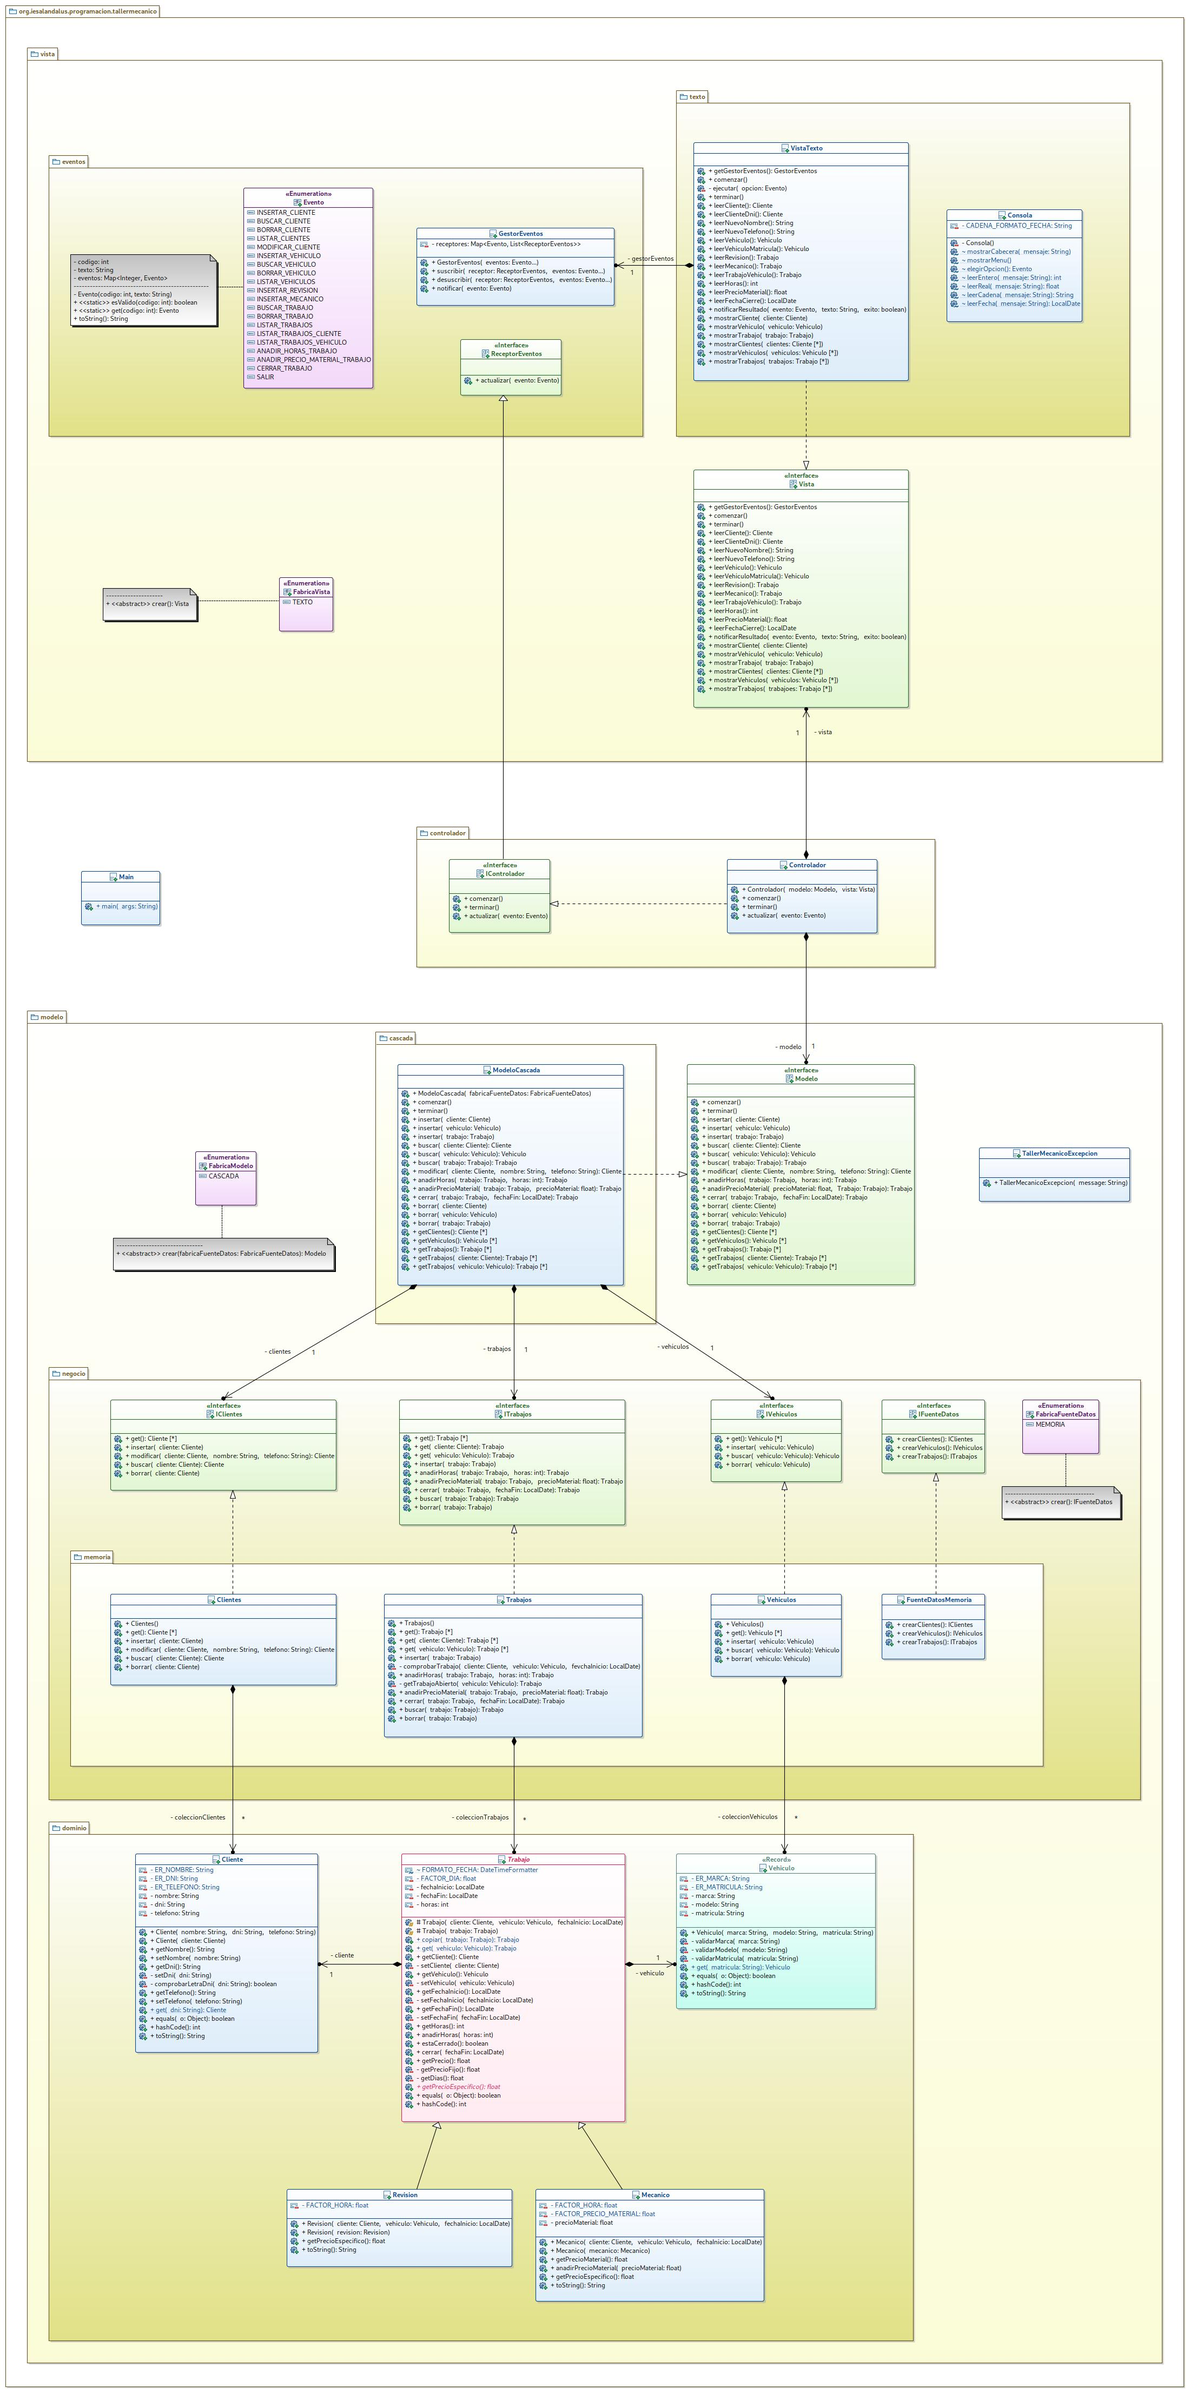
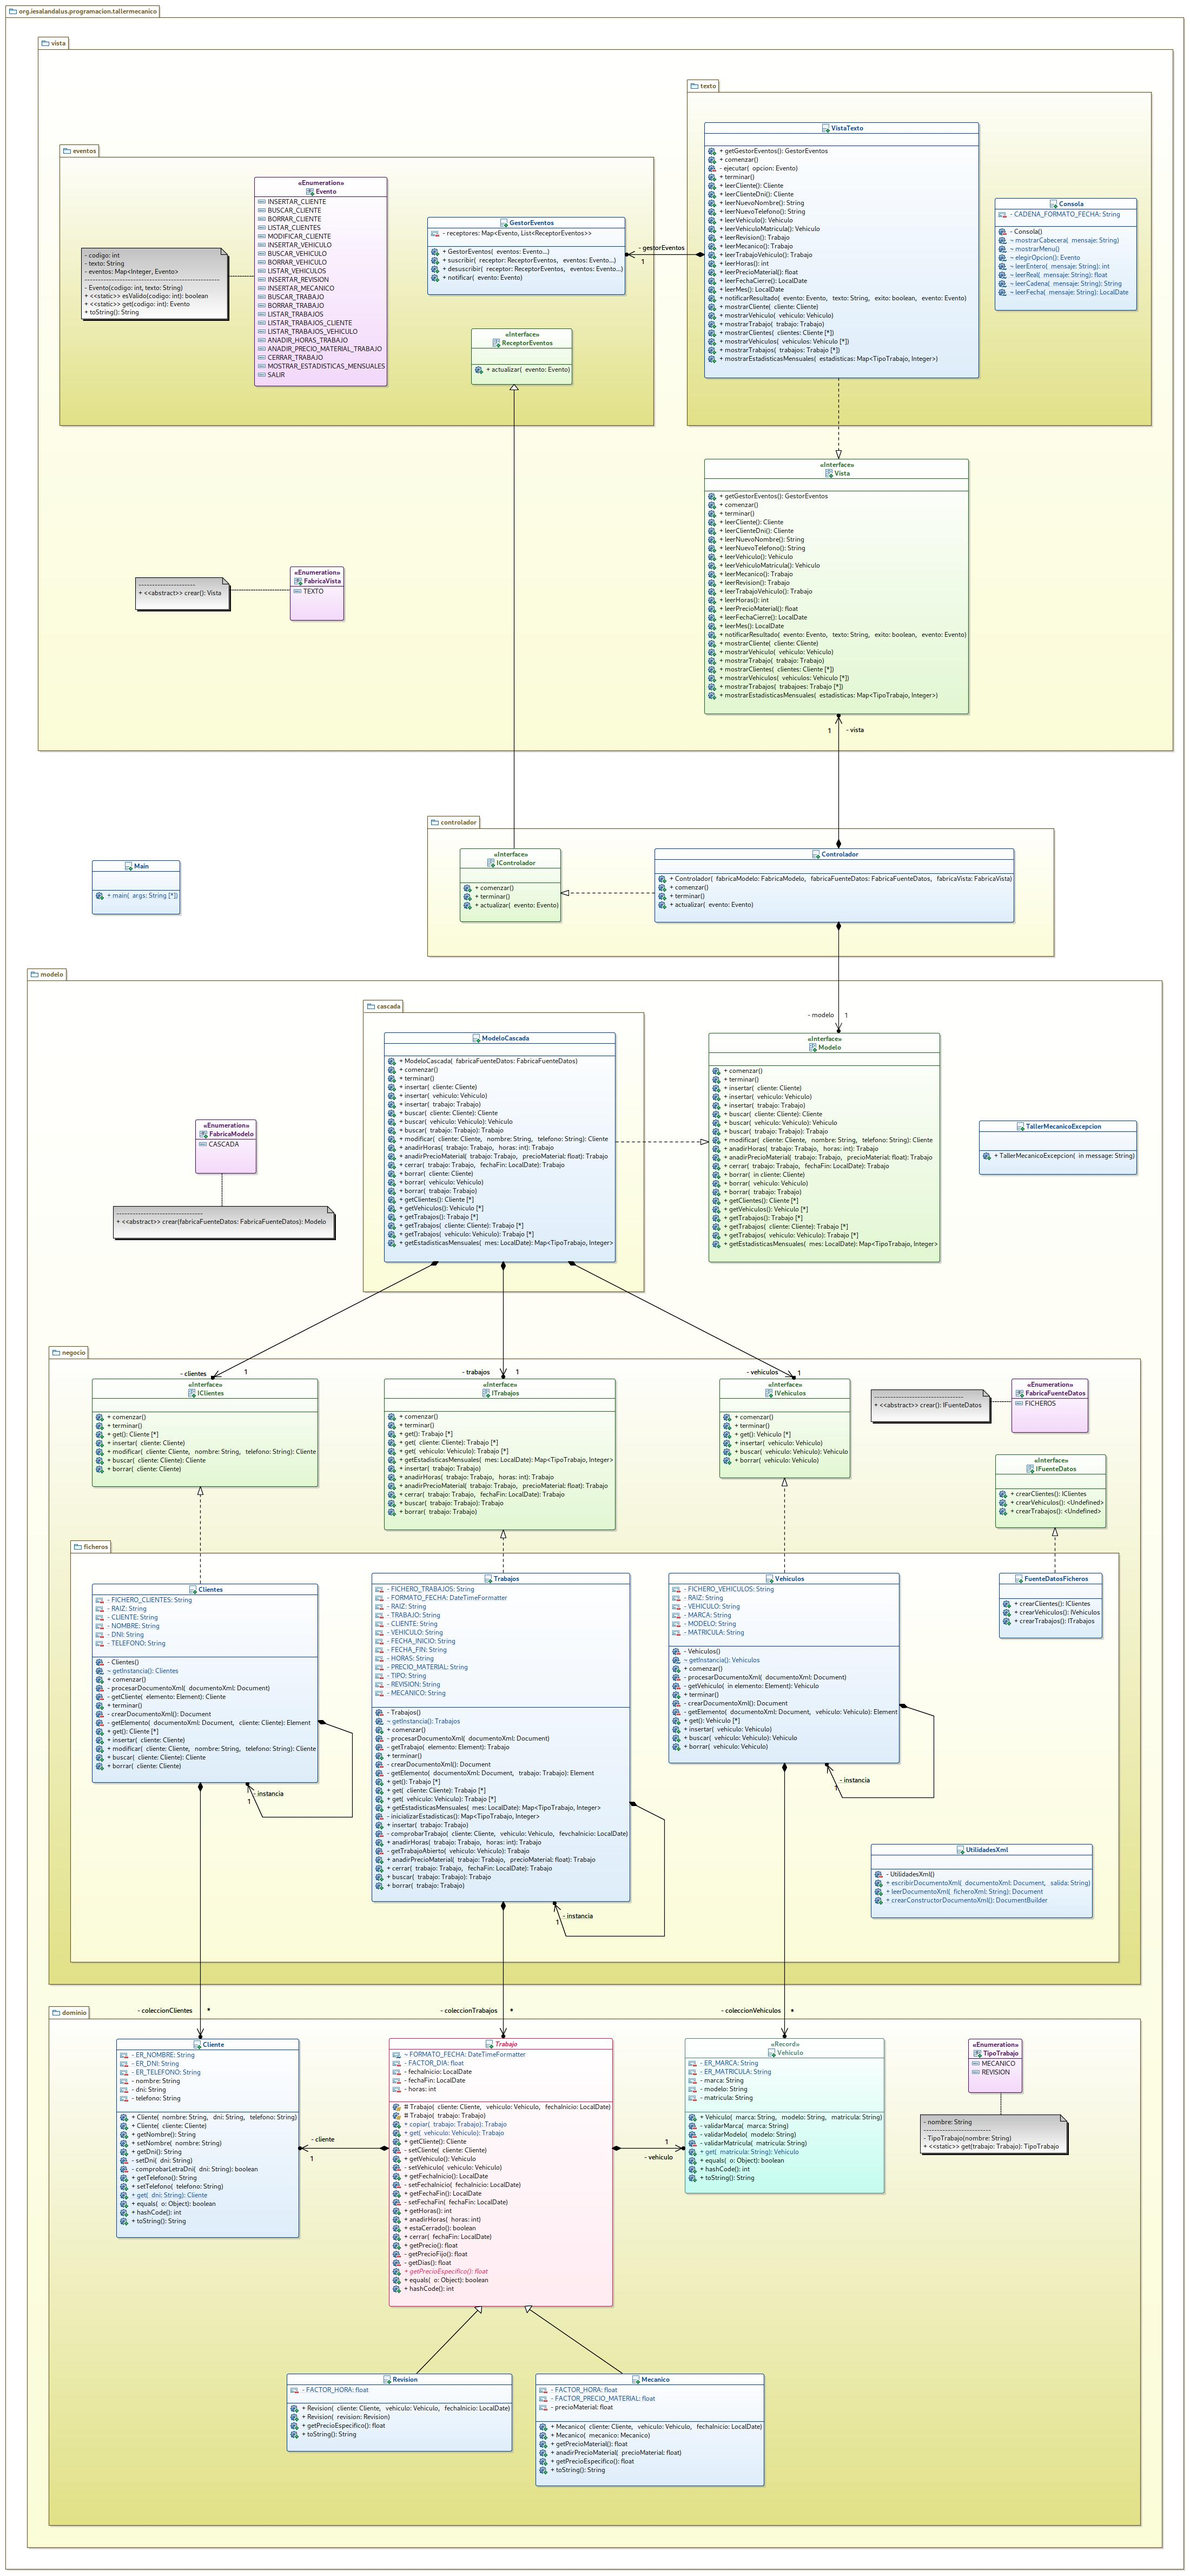
Enumerado evento hecho

diff --git a/src/main/java/org/iesalandalus/programacion/tallermecanico/vista/eventos/Evento.java b/src/main/java/org/iesalandalus/programacion/tallermecanico/vista/eventos/Evento.java
@@ -25,35 +25,35 @@ public enum Evento {
     CERRAR_TRABAJO (40,"Cerrar revisión."),
     SALIR (1,"Salir.");
 
-    private int numeroOpcion;
-    private String mensaje;
+    private int codigo;
+    private String texto;
     static Map<Integer, Evento> eventos = new HashMap<>();
 
     static {
         for (Evento evento : values()) {
-            eventos.put(evento.numeroOpcion, evento);
+            eventos.put(evento.codigo, evento);
         }
     }
 
-    Evento(int numeroOpcion, String mensaje){
-        this.numeroOpcion = numeroOpcion;
-        this.mensaje = mensaje;
+    Evento(int codigo, String texto){
+        this.codigo = codigo;
+        this.texto = texto;
     }
 
-    public static boolean esValida(int numeroOpcion){
-        return eventos.containsKey(numeroOpcion);
+    public static boolean esValida(int codigo){
+        return eventos.containsKey(codigo);
     }
 
-    public static Evento get(int numeroOpcion){
-        if (!esValida(numeroOpcion)){
+    public static Evento get(int codigo){
+        if (!esValida(codigo)){
             throw new IllegalArgumentException("La opción no es válida.");
         }
 
-        return eventos.get(numeroOpcion);
+        return eventos.get(codigo);
     }
 
     @Override
     public String toString() {
-        return String.format("%d.- %s", numeroOpcion, mensaje);
+        return String.format("%d.- %s", codigo, texto);
     }
 }

diff --git a/src/main/java/org/iesalandalus/programacion/tallermecanico/modelo/negocio/memoria/Trabajos.java b/src/main/java/org/iesalandalus/programacion/tallermecanico/modelo/negocio/memoria/Trabajos.java
@@ -6,6 +6,7 @@ import org.iesalandalus.programacion.tallermecanico.modelo.dominio.*;
 import java.time.LocalDate;
 import java.util.ArrayList;
 import java.util.List;
+import java.util.Map;
 import java.util.Objects;
 
 public class Trabajos implements org.iesalandalus.programacion.tallermecanico.modelo.negocio.ITrabajos {
@@ -46,6 +47,14 @@ public class Trabajos implements org.iesalandalus.programacion.tallermecanico.mo
             }
         }
         return coleccionResultante;
+    }
+
+    public Map<TipoTrabajo, Integer> getEstadisticasMensuales(LocalDate mes) {
+
+    }
+
+    private Map<TipoTrabajo, Integer> inicializarEstadisticas() {
+
     }
 
     @Override

diff --git a/src/main/java/org/iesalandalus/programacion/tallermecanico/modelo/dominio/TipoTrabajo.java b/src/main/java/org/iesalandalus/programacion/tallermecanico/modelo/dominio/TipoTrabajo.java
@@ -1,0 +1,27 @@
+package org.iesalandalus.programacion.tallermecanico.modelo.dominio;
+
+public enum TipoTrabajo {
+    MECANICO ("Mecánico"),
+    REVISION ("Revisión");
+
+    private String nombre;
+
+    TipoTrabajo(String nombre) {
+        this.nombre = nombre;
+    }
+
+    public static TipoTrabajo get(Trabajo trabajo) {
+        TipoTrabajo tipo;
+        if (trabajo instanceof Revision) {
+            tipo = REVISION;
+        } else {
+            tipo = MECANICO;
+        }
+        return tipo;
+    }
+
+    @Override
+    public String toString() {
+        return nombre;
+    }
+}
